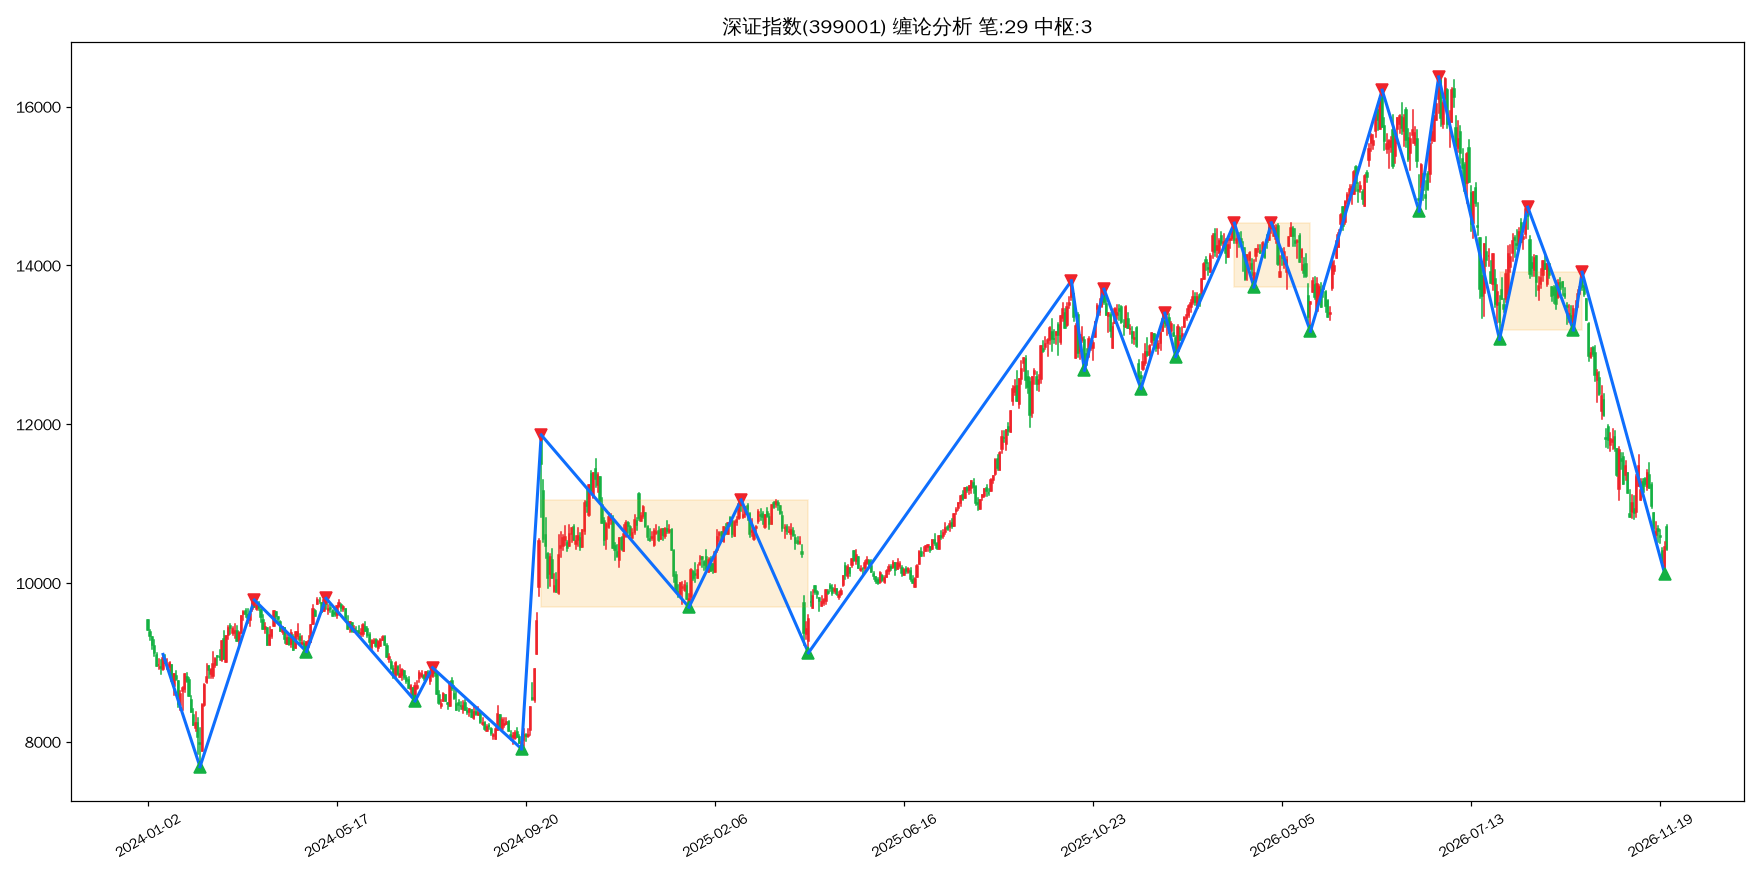
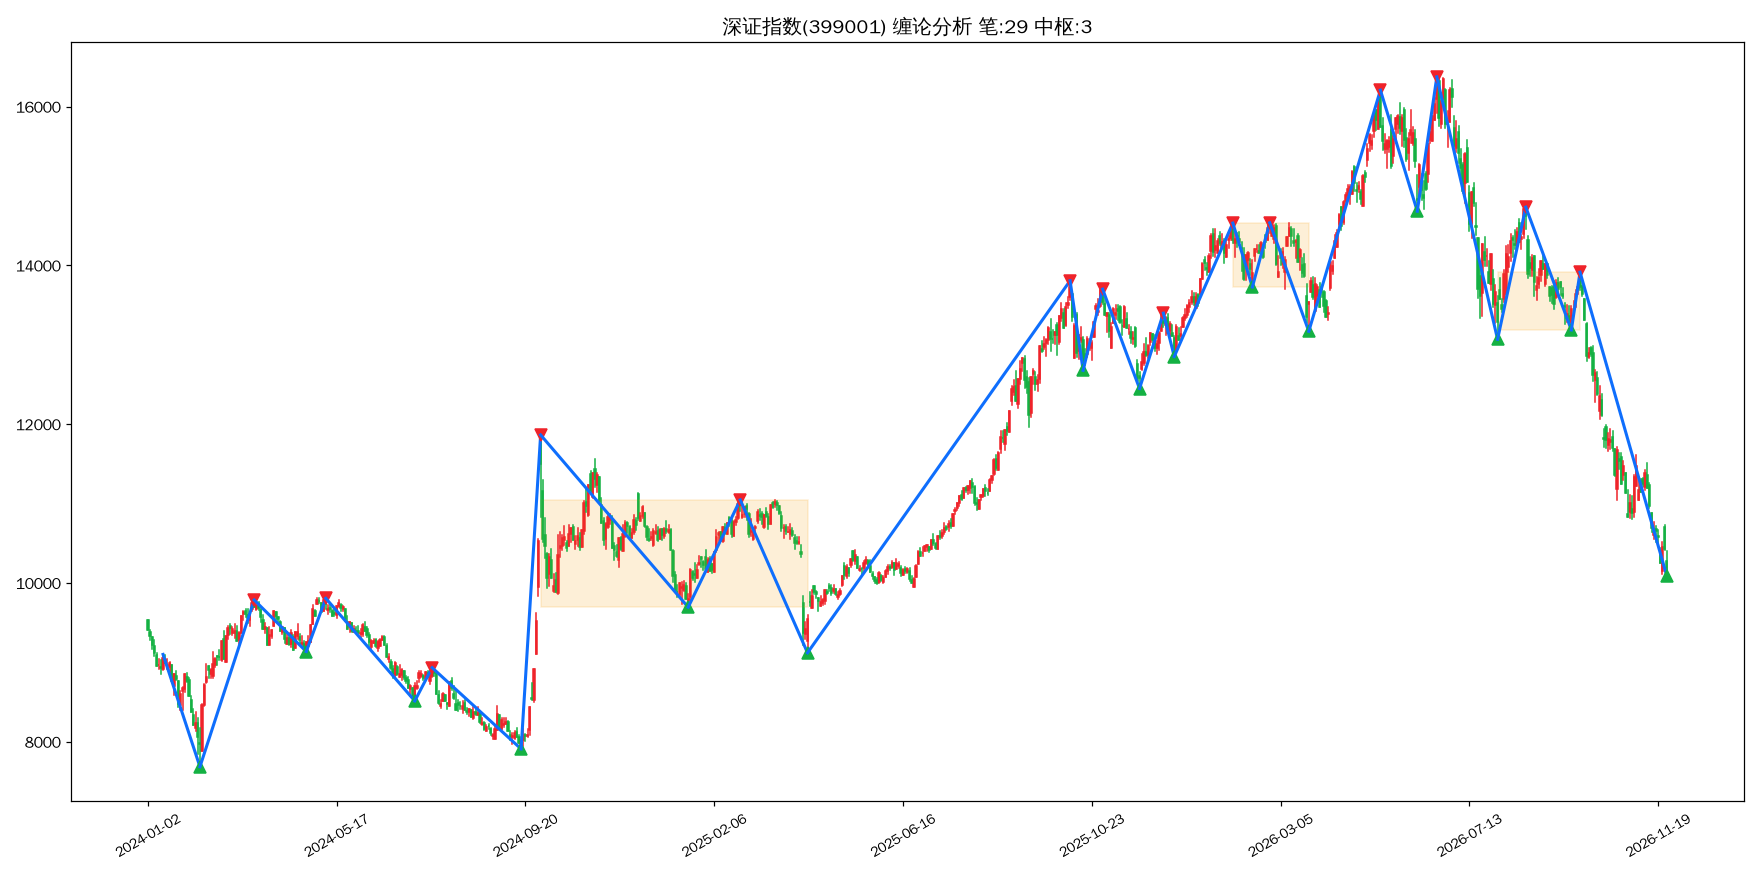
自动更新缠论日报与配图

diff --git a/chan_report.md b/chan_report.md
@@ -1,5 +1,5 @@
 # 批量缠论分析报告（chan.py 引擎 · 含买卖点+背驰判断）
-> 数据区间：2024-01-01 ~ 2026-11-25
+> 数据区间：2024-01-01 ~ 2026-11-26
 
 ## 京东方A（000725）
 - 最新收盘价：4.43
@@ -110,21 +110,21 @@
 ![上证指数缠论图谱](chan_img/000001_上证指数.png)
 
 ## 深证指数（399001）
-- 最新收盘价：10423.604
-- 有效K线数量：700
+- 最新收盘价：10086.355
+- 有效K线数量：701
 - 笔总数：29 | 中枢总数：3
-- 最新一笔走势：下跌 | 2026-09-22~2026-11-23 | 13914.21 → 10118.02
+- 最新一笔走势：下跌 | 2026-09-22~2026-11-25 | 13914.21 → 10086.35
 - 缠论背驰判断：**无背驰**
-- 三类买卖点识别：**卖1类@2025-10-09(13725.56)、卖2类@2025-10-30(13532.13)、卖1p类@2026-06-22(16372.50)、卖2类@2026-08-18(14622.50)、卖2s类@2026-09-22(13723.74)、买1类@2026-11-23(10454.37)**
+- 三类买卖点识别：**卖1类@2025-10-09(13725.56)、卖2类@2025-10-30(13532.13)、卖1p类@2026-06-22(16372.50)、卖2类@2026-08-18(14622.50)、卖2s类@2026-09-22(13723.74)、买1类@2026-11-25(10086.35)**
 ![深证指数缠论图谱](chan_img/399001_深证指数.png)
 
 ## 创业板指（399006）
-- 最新收盘价：2278.994
-- 有效K线数量：700
+- 最新收盘价：2183.584
+- 有效K线数量：701
 - 笔总数：31 | 中枢总数：3
-- 最新一笔走势：下跌 | 2026-09-22~2026-11-23 | 3472.47 → 2188.45
+- 最新一笔走势：下跌 | 2026-09-22~2026-11-25 | 3472.47 → 2183.58
 - 缠论背驰判断：**无背驰**
-- 三类买卖点识别：**买1类@2024-08-29(1541.40)、买2,3b类@2025-01-13(1982.46)、买2s类@2025-04-07(1807.21)、买2s类@2025-05-28(1985.38)、买2s类@2025-06-23(2017.63)、买3a类@2025-11-24(2929.04)、卖1p类@2026-01-13(3321.89)、卖2类@2026-02-25(3354.82)、买1类@2026-11-23(2280.20)**
+- 三类买卖点识别：**买1类@2024-08-29(1541.40)、买2,3b类@2025-01-13(1982.46)、买2s类@2025-04-07(1807.21)、买2s类@2025-05-28(1985.38)、买2s类@2025-06-23(2017.63)、买3a类@2025-11-24(2929.04)、卖1p类@2026-01-13(3321.89)、卖2类@2026-02-25(3354.82)、买1类@2026-11-25(2183.58)**
 ![创业板指缠论图谱](chan_img/399006_创业板指.png)
 
 ## 沪深300（000300）
